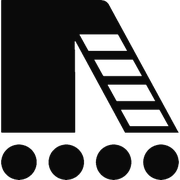
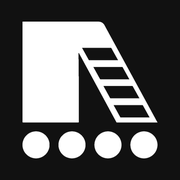
a

diff --git a/index.html b/index.html
@@ -3,6 +3,14 @@
 <head>
 <meta charset="UTF-8" />
 <meta name="viewport" content="width=device-width, initial-scale=1.0" />
+<!-- Google tag (gtag.js) -->
+<script async src="https://www.googletagmanager.com/gtag/js?id=G-9GNDX0SFJX"></script>
+<script>
+  window.dataLayer = window.dataLayer || [];
+  function gtag(){dataLayer.push(arguments);}
+  gtag('js', new Date());
+  gtag('config', 'G-9GNDX0SFJX');
+</script>
 <link rel="icon" type="image/png" href="/favicon.png" />
 <link rel="icon" href="/favicon.ico" sizes="any" />
 <link rel="apple-touch-icon" href="/apple-touch-icon.png" />